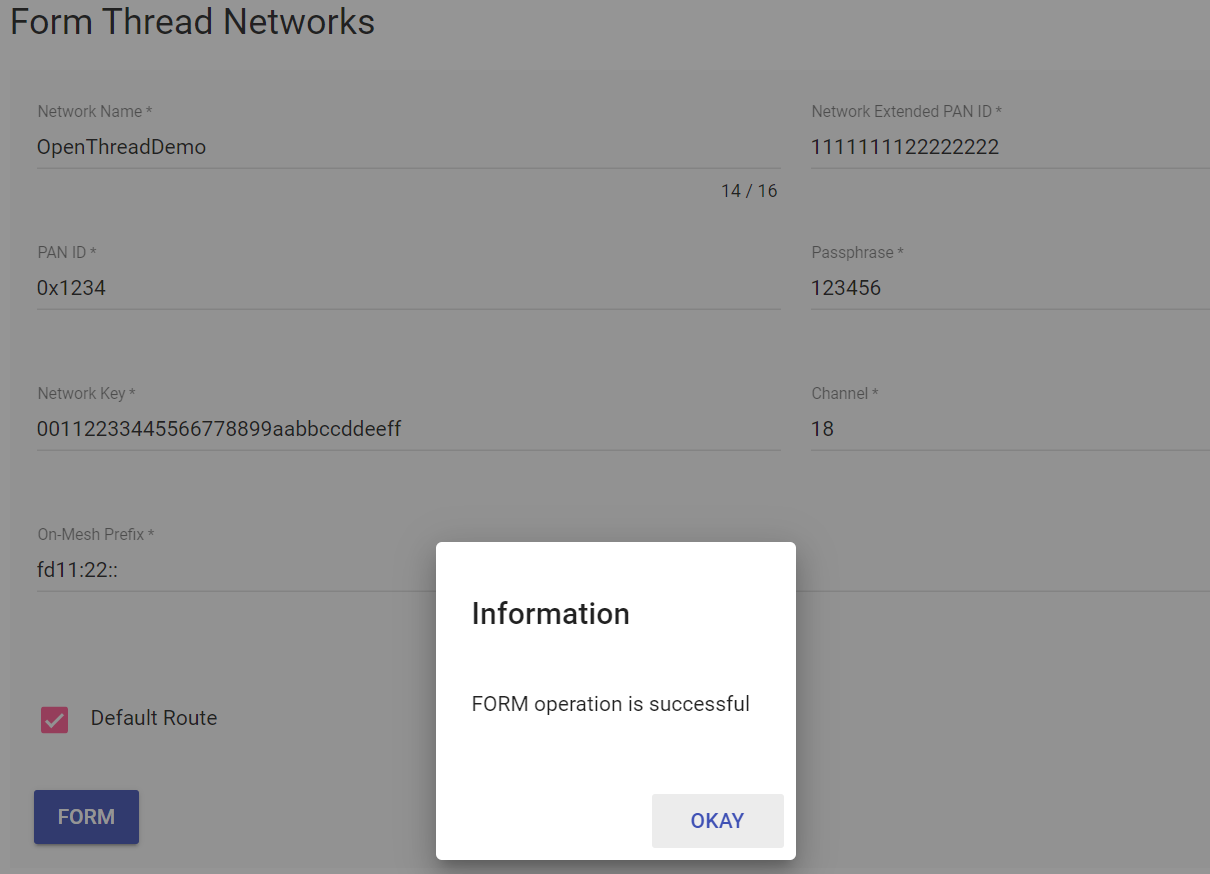
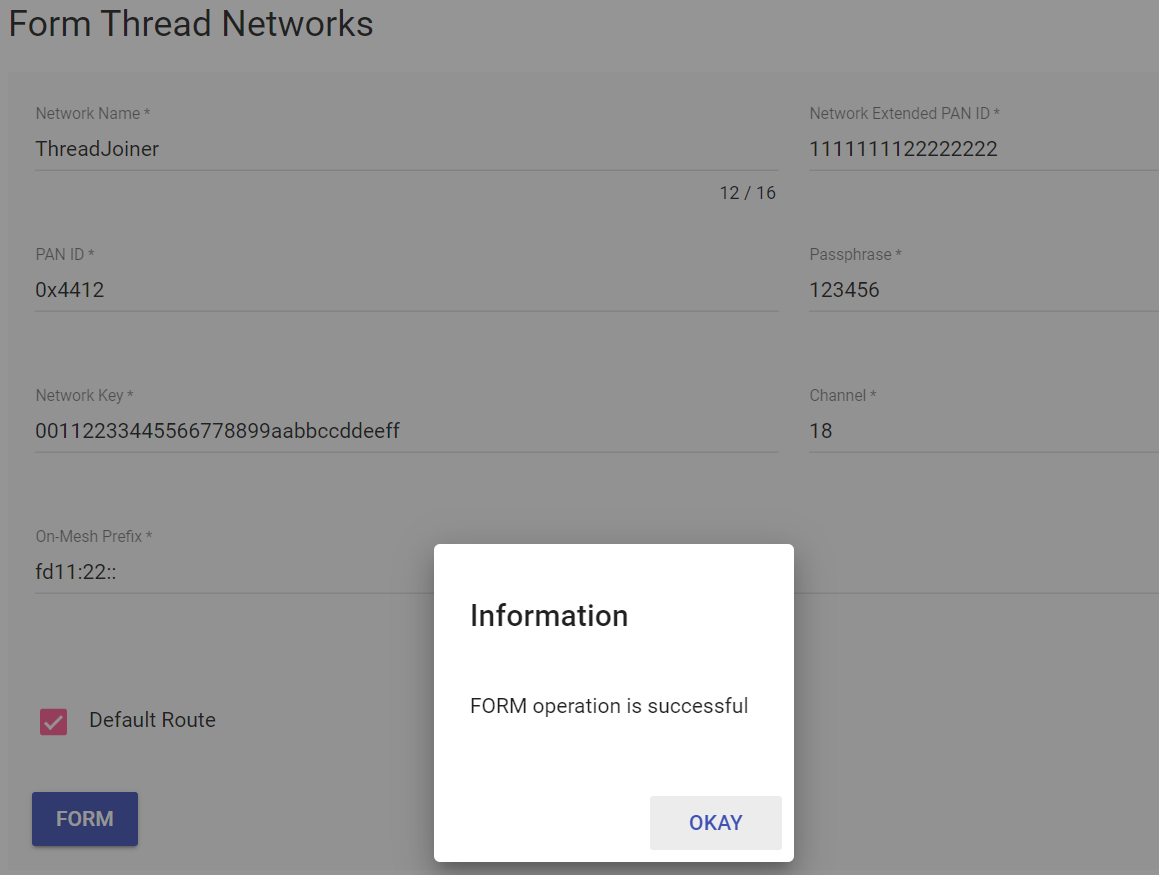
updated doc for dongle

diff --git a/content/docs/networks/thread.md b/content/docs/networks/thread.md
@@ -220,7 +220,22 @@ wpan0: flags=4305<UP,POINTOPOINT,RUNNING,NOARP,MULTICAST>  mtu 1280
 {{</details>}}
 
 ## Radio Co-Processor (RCP)
+* Ready binaries : are provided below. Versions with `=USB` can be flashed with nRF-Connect `Programmer` tool and the defaul `nRF52840-usb dongle` bootloader.
+It is also possible to directly flash a non USB version with an SWD debugger or recover the original bootloader (with an SWD debugger) from the hex available from [this post](https://devzone.nordicsemi.com/f/nordic-q-a/40924/how-can-i-restore-the-original-bootloader-of-a-pca10059)
+
+{{<icon_button href="/data/ot-rcp-com-1.2-usb_27.08.2021.hex.zip" text="ot-rcp 27.08.2021 OT_BOOTLOADER=USB" icon="download" >}}
+
+{{<icon_button href="/data/ot-rcp-com-1.2_27.08.2021.hex.zip" text="ot-rcp 27.08.2021" icon="download" >}}
+
+{{<icon_button href="/data/ot-rcp_thread-reference-20191113_nRF52840_dongle_no_bootloader.zip" text="ot-rcp thread-reference-20191113" icon="download" >}}
+
+{{<icon_button href="/data/ot-rcp_de3ddb7169_20.03.2021_USB_BL-USB.zip" text="ot-rcp 20.03.2021 BOOTLOADER=USB" icon="download" >}}
+
+{{<icon_button href="/data/ot-rcp_de3ddb7169_20.03.2021_USB_BL-No.zip" text="ot-rcp 20.03.2021 No Bootloader" icon="download" >}}
+
+* Manual build : Link to the official documentation of build instructions
 {{<icon_button href="https://github.com/openthread/ot-nrf528xx/blob/main/src/nrf52840/README.md" text="new nRF52840 Build instructions" icon="github" >}}
+Build instructions summary
 ```bash
 cd ~/ot-nrf528xx
 ./script/bootstrap
@@ -232,18 +247,6 @@ arm-none-eabi-objcopy -O ihex ot-rcp ot-rcp-com-1.2.hex
 nrfjprog -f nrf52 --eraseall
 nrfjprog -f nrf52 --chiperase --program ot-rcp-com-1.2.hex --reset
 ```
-
-It is possible to restore the original bootloader from the hex available from [this post](https://devzone.nordicsemi.com/f/nordic-q-a/40924/how-can-i-restore-the-original-bootloader-of-a-pca10059)
-
-{{<icon_button href="/data/ot-rcp-com-1.2-usb_27.08.2021.hex.zip" text="ot-rcp 27.08.2021 OT_BOOTLOADER=USB" icon="download" >}}
-
-{{<icon_button href="/data/ot-rcp-com-1.2_27.08.2021.hex.zip" text="ot-rcp 27.08.2021" icon="download" >}}
-
-{{<icon_button href="/data/ot-rcp_thread-reference-20191113_nRF52840_dongle_no_bootloader.zip" text="ot-rcp thread-reference-20191113" icon="download" >}}
-
-{{<icon_button href="/data/ot-rcp_de3ddb7169_20.03.2021_USB_BL-USB.zip" text="ot-rcp 20.03.2021 BOOTLOADER=USB" icon="download" >}}
-
-{{<icon_button href="/data/ot-rcp_de3ddb7169_20.03.2021_USB_BL-No.zip" text="ot-rcp 20.03.2021 No Bootloader" icon="download" >}}
 
 
 ## udp test

diff --git a/content/docs/microcontrollers/nrf52/thread_sensortag.md b/content/docs/microcontrollers/nrf52/thread_sensortag.md
@@ -81,15 +81,16 @@ toc: true
 
 # Software
 
+
+## Openthread Dongle
+This section includes instructions how to create an openthread dongle called `Radio Co-Processor` (RCP), that needs to be flashed then attached to the raspberry pi USB port.
+ 
+{{<button relref="/docs/networks/thread#radio-co-processor-rcp">}}nRF52840-usb RCP{{</button>}}
 ## Raspberry Pi Setup
-This section includes steps to install all needed services to run the SensorTag udp-v6 broadcast to mqtt, this also inlcudes the boarder router setup as intermediate step.
+This section includes steps to install all needed services to run the SensorTag udp-v6 broadcast to mqtt, influxdb and grafana this also inlcudes the boarder router setup as intermediate step.
  
 {{<button relref="/docs/frameworks/raspi_iot#raspberry-pi-setup">}}raspberry pi setup{{</button>}}
 
-### Border Router Setup
-This section includes instructions to install the boarder router services only in case another app is to be used on top of the openthread stack.
- 
-{{<button relref="/docs/networks/thread#border-router">}}border router setup{{</button>}}
 
 
 ## Zephyr Tag Firmware

diff --git a/content/docs/Frameworks/raspi_iot.md b/content/docs/Frameworks/raspi_iot.md
@@ -114,7 +114,8 @@ sudo sh setup.sh
     * the grafana has porivioned the databse `mqtt` from `http://localhost:8086`
   * install the `influx_mqtt` which is an mqtt to influx python service, then creates an influx databse named `mqtt`
   * install the `thread_tags` udp-v6 to mqtt python service
-* on the `http://raspi_ip` OT Border Router web GUI, Form a network e.g. on channel 18
+* discover the raspi ip address from the router (will be used to replace `<raspi_ip>`) then navigate on a browser on `http://<raspi_ip>`, the OT Border Router web GUI should appear. Use it to form a network e.g. (channel 18, panid 0x4412,...)
+  * ensure that the same parameters are used in the thread sensor tag firmware
 {{<gfigure src="/images/thread_sensortag/form_network.png" width="300px" >}}
 * open the grafana dashboard `SensorTag Compare` from `http://raspi_ip:3000`
 
